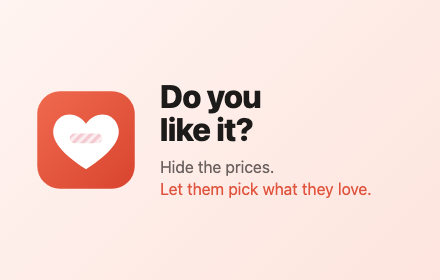
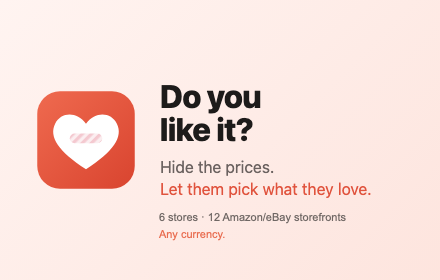
Prepare 0.2.1 global store release

Changed region(s): [[0.3545, 0.7429, 0.7977, 0.8], [0.3545, 0.8286, 0.5318, 0.8571]]

diff --git a/store/privacy.html b/store/privacy.html
@@ -19,7 +19,7 @@
 <body>
 <main>
   <h1>Do You Like It? <span>❤</span></h1>
-  <p class="updated">Privacy policy · Last updated 21 November 2026 (version 0.2.0)</p>
+  <p class="updated">Privacy policy · Last updated 23 November 2026 (version 0.2.1)</p>
 
   <p>Do You Like It? is a browser extension that hides prices on shopping websites. In short, it does not collect, send or sell any information about you.</p>
 
@@ -42,7 +42,7 @@
   </ul>
 
   <h2>Which websites it runs on</h2>
-  <p>The extension only runs on the shopping websites listed in its Chrome Web Store page. Amazon.in, Flipkart and Myntra are on from install; other stores (such as Amazon US, eBay, Etsy and IKEA) only after you turn each one on, which Chrome asks you to approve. On those pages it covers prices and adds Like buttons. It reads page content only to do that, inside your browser.</p>
+  <p>The extension supports six shopping sites: Amazon, eBay, Etsy, IKEA, Flipkart and Myntra. Amazon covers India, the US, UK, Germany, Canada, Australia and the UAE; eBay covers the US, UK, Germany, Australia and Canada. Etsy and IKEA are supported on their international .com storefronts. Amazon.in, Flipkart and Myntra are enabled at install; other store permissions are optional and Chrome asks before they are enabled. On approved pages, the extension reads page content only to hide prices and add Like buttons, inside your browser.</p>
   <p>When you open its toolbar popup, the extension reads the current tab's address to offer turning it on for that store. It does not keep or send that address.</p>
 
   <h2>Changes to this policy</h2>

diff --git a/extension/popup.js b/extension/popup.js
@@ -47,13 +47,6 @@ async function renderSiteBanner() {
   $('site-banner-btn').onclick = () => chrome.permissions.request({ origins: [origin] }).then((ok) => ok && window.close());
 }
 
-function cartLink(group, picks) {
-  const site = sites.find((s) => s.id === picks[0].site);
-  if (!site?.cart || !picks[0].domain) return null;
-  const items = picks.map((p, i) => site.cart.item.replaceAll('{n}', i + 1).replace('{id}', encodeURIComponent(p.id)));
-  return `${site.cart.url.replace('{domain}', picks[0].domain)}?${items.join('&')}`;
-}
-
 function renderPick(pick) {
   const li = document.createElement('li');
   li.className = 'pick';
@@ -115,18 +108,9 @@ function renderGroup(name, picks, collapsed) {
   actions.className = 'group-actions';
   const openAll = document.createElement('button');
   openAll.className = 'link';
-  openAll.textContent = `Open all (${picks.length})`;
+  openAll.textContent = picks.length === 1 ? 'Open' : `Open all (${picks.length})`;
   openAll.addEventListener('click', () => picks.forEach((p) => chrome.tabs.create({ url: p.url, active: false })));
   actions.append(openAll);
-  const cart = cartLink(name, picks);
-  if (cart) {
-    const addAll = document.createElement('button');
-    addAll.className = 'link';
-    addAll.textContent = 'Add all to cart';
-    addAll.title = 'Opens your cart on the site with every pick added. You review and pay there.';
-    addAll.addEventListener('click', () => chrome.tabs.create({ url: cart }));
-    actions.append(addAll);
-  }
 
   section.append(head, list, actions);
   return section;

diff --git a/extension/background.js b/extension/background.js
@@ -29,7 +29,7 @@ async function rulesFor(host) {
   return { ...site, domain, name: region.name ?? site.name, currency: region.currency ?? site.currency };
 }
 
-// What the popup needs: each site's domains, cart link, and whether it's turned on.
+// What the popup needs: each site's domains and whether it's turned on.
 async function siteList() {
   const sites = await loadSites();
   const { origins = [] } = await chrome.permissions.getAll();
@@ -38,7 +38,6 @@ async function siteList() {
     name: s.name,
     domains: s.domains,
     origins: originsFor(s),
-    cart: s.cart ?? null,
     enabled: originsFor(s).every((o) => origins.includes(o)),
   }));
 }

diff --git a/README.md b/README.md
@@ -31,7 +31,9 @@ If a site file has no `price` selector for products, the extension saves the fir
 
 **Always-on and optional stores.** Amazon.in, Flipkart and Myntra are on from install. Every other store is an optional permission: the popup offers "Turn on" when you visit it, and the extension then runs only on stores you've approved.
 
-**Picks list.** Grouped by store (fold each group open or closed), with subtotals and a total per currency. "Open all" opens a group in tabs; Amazon groups also get "Add all to cart". Checkout always happens on the store's own site.
+**Six shopping sites, global currencies.** Amazon (India, US, UK, Germany, Canada, Australia and UAE), eBay (US, UK, Germany, Australia and Canada), Etsy, IKEA, Flipkart and Myntra. That is 12 regional Amazon and eBay storefronts, plus Etsy and IKEA's international `.com` storefronts. Picks and totals work in the currency shown by each store.
+
+**Picks list.** Grouped by store (fold each group open or closed), with subtotals and a total per currency. A single pick has an "Open" button; groups with multiple picks have "Open all". Checkout always happens on the store's own site.
 
 ## Add a site
 
@@ -58,7 +60,7 @@ Other publishing files:
 
 ## Status
 
-Version 0.2.0. Stores: Amazon (IN, US, UK, DE, CA, AU, AE), eBay (US, UK, DE, AU, CA), Etsy, IKEA (every country), Flipkart, Myntra. Not yet included: a PIN to stop hiding being turned off, a shareable lookbook, and Shopify/Walmart/Zara rules. Known gap: Etsy shows prices inside size dropdowns, which page styles can't reach.
+Version 0.2.1. Supports 6 shopping sites: Amazon (IN, US, UK, DE, CA, AU, AE), eBay (US, UK, DE, AU, CA), Etsy, IKEA, Flipkart and Myntra. Not yet included: a PIN to stop hiding being turned off, a shareable lookbook, and Shopify/Walmart/Zara rules. Known gap: Etsy shows prices inside size dropdowns, which page styles can't reach.
 
 ## License
 
